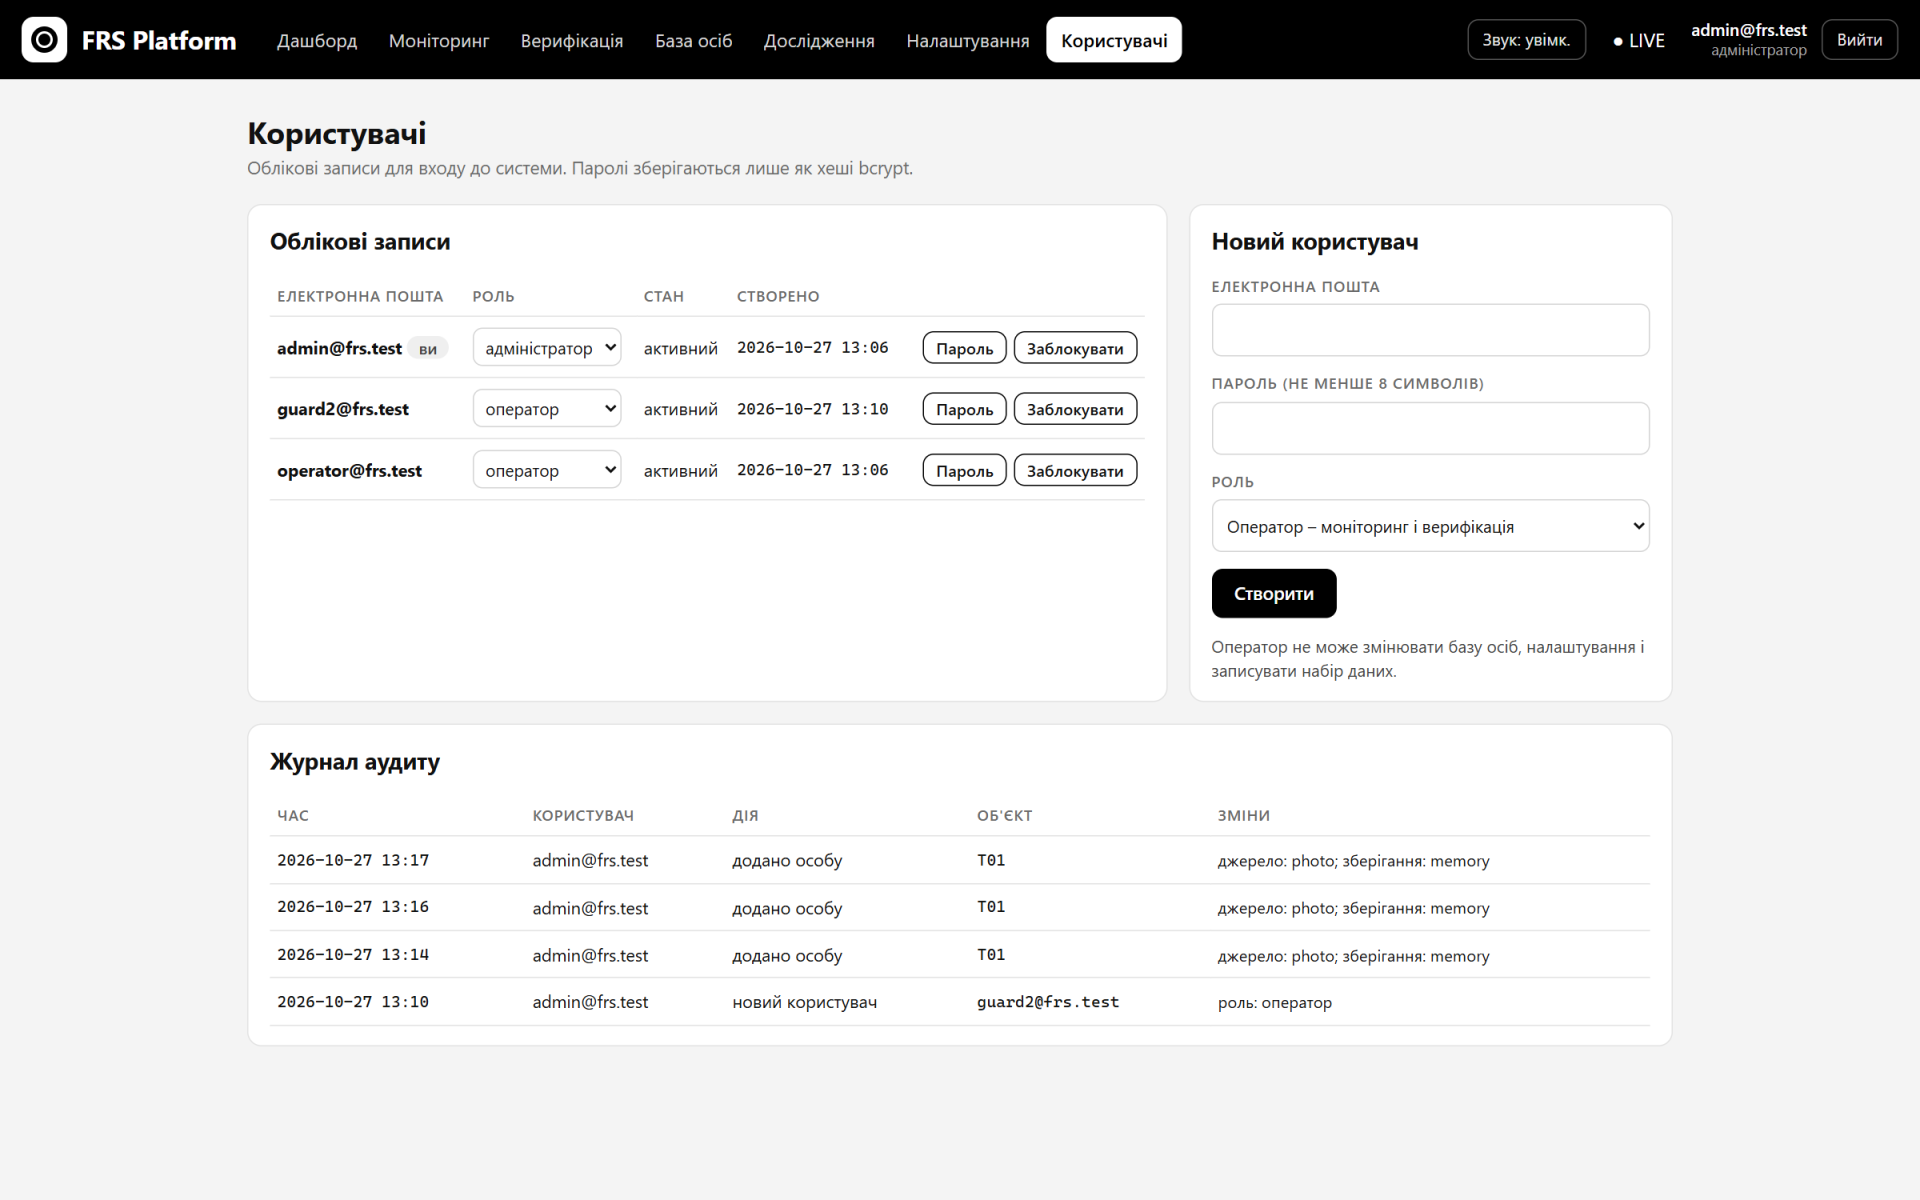
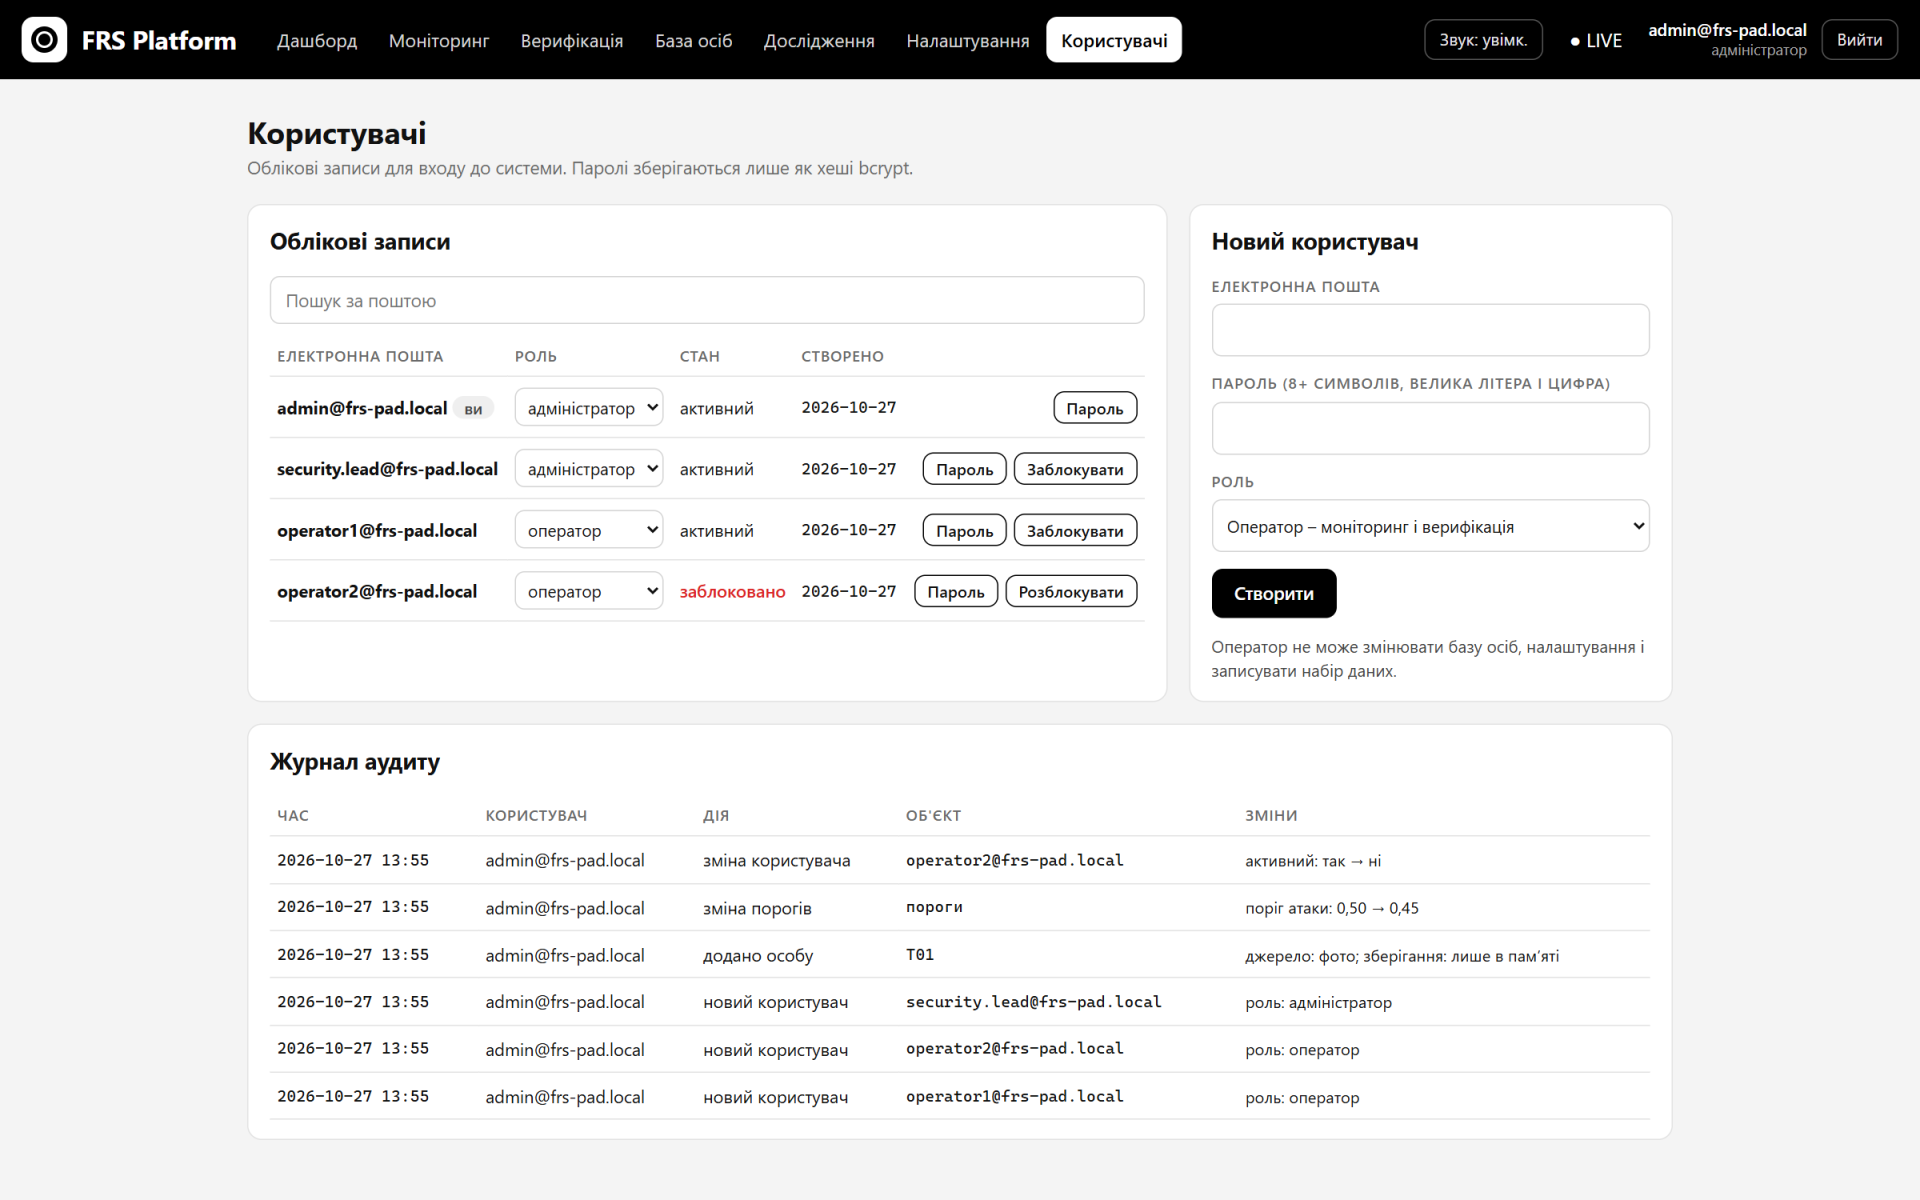
Вкладка «Користувачі»: перенесення довгих адрес, дата створення без часу, підписи журналу аудиту українською; нові скриншоти

diff --git a/pad/web/app.js b/pad/web/app.js
@@ -1755,7 +1755,9 @@ const CHANGE_TEXT = {
   deleted_files: 'файлів', reviewed: 'розмічено', recognition_threshold: 'поріг розпізнавання',
   pad_threshold: 'поріг атаки', via: 'через',
 };
-const changeValue = v => typeof v === 'boolean' ? (v ? 'так' : 'ні') : ROLE_TEXT[v] || (typeof v === 'number' && !Number.isInteger(v) ? fmt(v) : String(v));
+const VALUE_TEXT = { photo: 'фото', camera: 'камера', memory: 'лише в пам’яті', encrypted: 'зашифровано', cli: 'командний рядок', thresholds: 'пороги' };
+const changeValue = v => typeof v === 'boolean' ? (v ? 'так' : 'ні')
+  : ROLE_TEXT[v] || VALUE_TEXT[v] || (typeof v === 'number' && !Number.isInteger(v) ? fmt(v) : String(v));
 const changesText = c => Object.entries(c || {}).map(([k, v]) =>
   `${CHANGE_TEXT[k] || k}: ${Array.isArray(v) ? `${changeValue(v[0])} → ${changeValue(v[1])}` : changeValue(v)}`).join('; ') || '–';
 
@@ -1767,7 +1769,7 @@ async function refreshUsers() {
   renderUsersTable();
   $('#a-table tbody').innerHTML = audit.map(a => `<tr>
       <td class="mono">${esc(fmtDateTime(a.time))}</td><td>${esc(a.user || 'командний рядок')}</td>
-      <td>${esc(ACTION_TEXT[a.action] || a.action)}</td><td class="mono">${esc(a.target)}</td><td>${esc(changesText(a.changes))}</td>
+      <td>${esc(ACTION_TEXT[a.action] || a.action)}</td><td class="mono">${esc(VALUE_TEXT[a.target] || a.target)}</td><td>${esc(changesText(a.changes))}</td>
     </tr>`).join('') || '<tr class="empty"><td colspan="5">змін ще не було</td></tr>';
 }
 
@@ -1781,7 +1783,7 @@ function renderUsersTable() {
       <td><select class="role" data-u-role aria-label="Роль ${esc(u.email)}">${Object.entries(ROLE_TEXT).map(([r, t]) =>
         `<option value="${r}"${u.role === r ? ' selected' : ''}>${t}</option>`).join('')}</select></td>
       <td>${u.active ? 'активний' : '<span class="state-off">заблоковано</span>'}</td>
-      <td class="mono">${esc(fmtDateTime(u.created))}</td>
+      <td class="mono">${esc(fmtDateTime(u.created).slice(0, 10))}</td>
       <td class="acts"><button class="btn sm" data-u-pw>Пароль</button>${u.email === me ? ''
         : `<button class="btn sm" data-u-active="${u.active ? 0 : 1}">${u.active ? 'Заблокувати' : 'Розблокувати'}</button>`}</td>
     </tr>`).join('') || `<tr class="empty"><td colspan="5">${q ? 'нічого не знайдено' : 'облікових записів немає'}</td></tr>`;

diff --git a/pad/web/style.css b/pad/web/style.css
@@ -484,6 +484,9 @@ body.role-operator #view-persons .grid2 { grid-template-columns: minmax(0, 1fr);
 #u-form h2 { margin-bottom: 2px; }
 #u-form .add-row { margin: 0; }
 .table td .role { height: 32px; width: auto; padding: 0 6px; font-size: 14px; }
+/* довгі адреси переносяться, щоб кнопки рядка не виходили за картку */
+#u-table td:first-child { white-space: normal; overflow-wrap: anywhere; min-width: 150px; }
+#u-table td.acts { white-space: nowrap; }
 .state-off { color: var(--red); font-weight: 600; }
 #a-table tr:not(.empty) td:last-child { white-space: normal; font-size: 13.5px; }
 @media (min-width: 1181px) { #view-users .grid2 { grid-template-columns: minmax(0, 1.9fr) minmax(0, 1fr); } }
